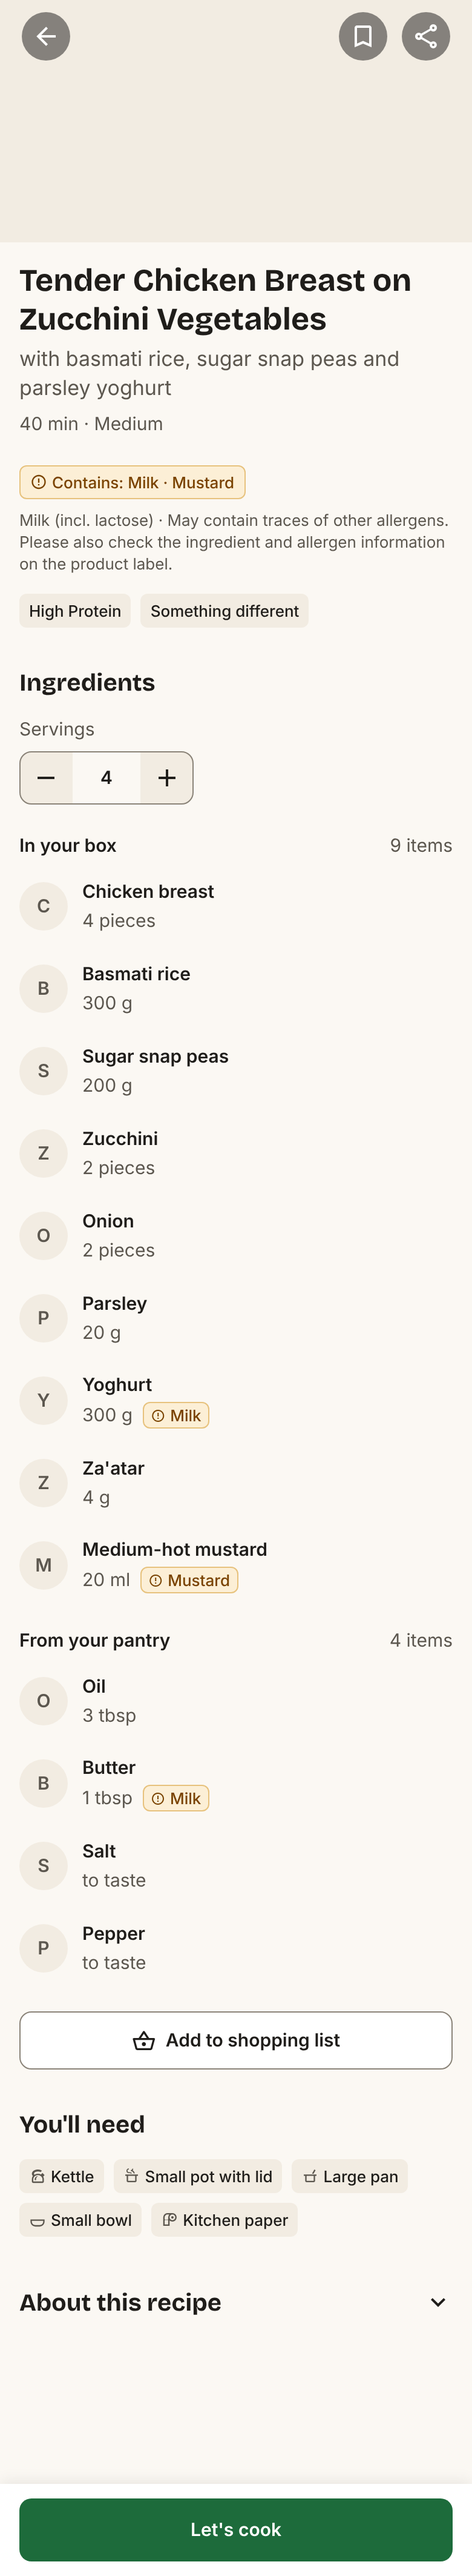
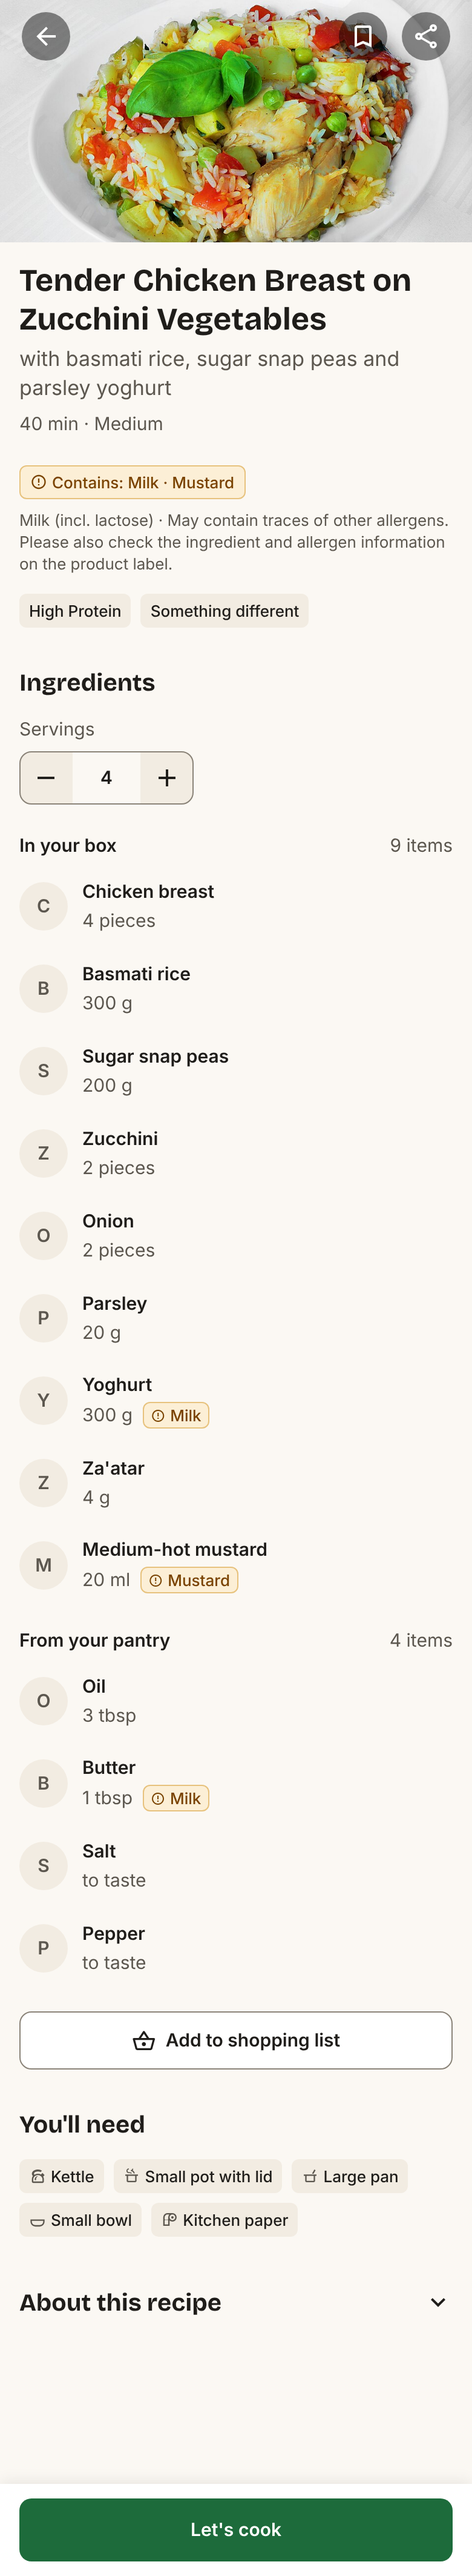
Add new tokens to tokens.md and a credited hero photo
tokens.md now lists every token added during the build (marked Added).
assets/hero.jpg is a free Wikimedia Commons photo (Petar Milosevic,
CC BY-SA 4.0) of chicken, rice, squash and peas; credited in
assets/CREDITS.md and the README. Screenshots refreshed.

Claude-Session: https://claude.ai/code/session_01Nt62VDTQhttFTqkyUPVqAi

Changed region(s): [[0.0615, 0.0, 1.0, 0.0931], [0.0, 0.0, 0.0615, 0.031]]

diff --git a/app/index.tsx b/app/index.tsx
@@ -1,5 +1,5 @@
 import { useState } from 'react';
-import { ScrollView, Share, Text, View } from 'react-native';
+import { Image, ScrollView, Share, Text, View } from 'react-native';
 import { router } from 'expo-router';
 import { useSafeAreaInsets } from 'react-native-safe-area-context';
 import { Button } from '../src/components/Button';
@@ -63,11 +63,13 @@ export default function RecipeScreen() {
   return (
     <View style={{ flex: 1, backgroundColor: color.bg.page }}>
       <ScrollView contentContainerStyle={{ paddingBottom: space[12] }}>
-        {/* Photo. Placeholder until the designer's assets/hero.jpg is added (docs/decisions.md). */}
-        <View
+        {/* Photo: decorative (the title says what the dish is). Credits in assets/CREDITS.md. */}
+        <Image
+          source={require('../assets/hero.jpg')}
+          resizeMode="cover"
           accessibilityElementsHidden
           importantForAccessibility="no-hide-descendants"
-          style={{ height: size.image.hero, backgroundColor: color.bg.subtle }}
+          style={{ width: '100%', height: size.image.hero, backgroundColor: color.bg.subtle }}
         />
 
         {/* Back on the left, Save and Share on the right, over the photo. */}

diff --git a/src/theme/tokens.ts b/src/theme/tokens.ts
@@ -6,8 +6,8 @@
  *   2. semantic – roles (color, space, size, radius, font, type, elevation, focus).
  *                 Components and screens use only these.
  *
- * Tokens marked "Added" are not in tokens.md yet; they were approved on 2026-10-16
- * and are logged in docs/decisions.md.
+ * Tokens marked "Added" were approved on 2026-10-16; they are in tokens.md (marked "Added")
+ * and logged in docs/decisions.md.
  */
 
 // ─── 1. Palette ────────────────────────────────────────────────────────────────

diff --git a/design-system/tokens.md b/design-system/tokens.md
@@ -37,6 +37,7 @@ different colour, only one semantic token changes.
 | `amber.100` | `#FCEFD6` | pale amber |
 | `amber.300` | `#E7C27D` | soft amber |
 | `amber.800` | `#7A4300` | deep amber |
+| `black` | `#000000` | base for overlays and the sticky shadow (added 2026-10-16) |
 
 ### Semantic colours
 
@@ -60,6 +61,7 @@ WCAG AA needs **4.5:1** for normal text and **3:1** for large text and control o
 | `color.allergen.border` | `amber.300` | Soft outline so the allergen tag reads as different even in grayscale. |
 | `color.allergen.fg` | `amber.800` | Allergen text and icon. 7.0:1 on the amber fill. Paired with an icon and the word "Contains", never colour alone. |
 | `color.focus` | `stone.900` | 2 pt focus ring for keyboard and switch-control users; works on every background in this file. |
+| `color.focusOnPhoto` | `white` | Focus ring on the photo's icon buttons, where `stone.900` disappears on dark images. *(Added 2026-10-16.)* |
 | `color.overlay` | black at 45% | Fill behind icon buttons on the photo, so white icons stay readable on any image. |
 | `color.overlayPressed` | black at 60% | Pressed state of those buttons. |
 | `color.onOverlay` | `white` | Icons on the overlay. |
@@ -77,6 +79,7 @@ A **4-point scale**: every gap is a multiple of 4, so spacing feels consistent w
 | `space.6` | 24 | Between related blocks, e.g. title block → allergen row. |
 | `space.8` | 32 | **Between sections** (ingredients → "You'll need"). Clearly bigger than in-section gaps, so sections read as separate. |
 | `space.12` | 48 | Space at the bottom so the last content isn't hidden behind the sticky button. |
+| `space.tagSm` | 6 | Horizontal padding of a small Tag (was "space.1 + 2" in the Tag spec). Off the 4-pt scale on purpose, so tiny tags don't look cramped. *(Added 2026-10-16.)* |
 
 Size tokens:
 
@@ -86,6 +89,17 @@ Size tokens:
 | `size.row.ingredient` | 56 | Ingredient row height: fits a 40 pt photo plus two lines of text with breathing room. |
 | `size.image.ingredient` | 40 | Ingredient photo; big enough to recognise, small enough to keep the list scannable. |
 | `size.cta.height` | 52 | Sticky "Let's cook" button; larger than the minimum because it's the main action. |
+| `size.button.md` | 48 | Standard Button height ("Add to shopping list"); comfortably above the 44 minimum. *(Added)* |
+| `size.tag.md` / `size.tag.sm` | 28 / 22 | Tag heights, used as **minimum** heights so large text never clips. *(Added)* |
+| `size.icon.tagMd` / `size.icon.tagSm` | 14 / 12 | Icons inside md / sm Tags; sized to the 13 pt tag text. *(Added)* |
+| `size.icon.button` | 20 | Leading icon in a Button, e.g. the basket. *(Added)* |
+| `size.icon.default` | 24 | IconButton, stepper, chevron and equipment icons. *(Added)* |
+| `size.iconButton.onPhoto` | 40 | Visible circle of the photo's icon buttons; the tap area stays 44. *(Added)* |
+| `size.stepper.value` | 56 | Width of the stepper's number area; fits "6" at large text sizes. *(Added)* |
+| `size.image.hero` | 200 | Hero photo height. Short enough that the first ingredient shows on the first screen. *(Added)* |
+
+*Tokens marked "Added" were introduced while building the screen on 2026-10-16; reasons in
+[`docs/decisions.md`](../docs/decisions.md).*
 
 ## 3. Radius
 
@@ -116,8 +130,24 @@ Size tokens:
 
 All text sizes should scale with the phone's text-size setting (Dynamic Type / font scale).
 
+Font family names in code *(added 2026-10-16)*:
+
+| Token | Value |
+|---|---|
+| `font.family.headingBold` | Bricolage Grotesque Bold (`BricolageGrotesque_700Bold`) |
+| `font.family.bodyRegular` | Inter Regular (`Inter_400Regular`) |
+| `font.family.bodyMedium` | Inter Medium (`Inter_500Medium`) |
+| `font.family.bodySemiBold` | Inter SemiBold (`Inter_600SemiBold`) |
+
 ## 5. Elevation
 
 | Token | Value | Why |
 |---|---|---|
 | `elevation.sticky` | shadow: 0 −2, blur 12, black at 8% | Only for the sticky CTA bar, to show content scrolls underneath it. Everything else stays flat. |
+
+## 6. Focus *(added 2026-10-16)*
+
+| Token | Value | Why |
+|---|---|---|
+| `focus.width` | 2 | Thickness of the focus ring. |
+| `focus.offset` | 2 | Gap between a control and its focus ring, so the ring never touches the control's own border. |

diff --git a/docs/decisions.md b/docs/decisions.md
@@ -16,7 +16,6 @@ Decisions that aren't in the specs, with the reason. Newest at the bottom.
 | 2026-10-16 | The StickyCTA hint appears in the component gallery only, not on the recipe screen. | "Step-by-step with timers" isn't in content.md, and "first time only" needs saved state the build doesn't have. |
 | 2026-10-16 | Ingredient placeholder: a circle in `color.bg.subtle` with the first letter in `type.label`, `color.text.secondary`. | No photos yet; the spec didn't say how the letter looks. |
 | 2026-10-16 | `check:tokens` checks style values only (`StyleSheet.create`, `style={}`, style keys, icon `size` / `hitSlop`), plus hex and `rgb()` anywhere outside `src/theme/`. | Content and maths have numbers (150 g, max 6 servings) that are not style values. |
-| 2026-10-16 | Until `assets/hero.jpg` is uploaded, the photo area is a plain `color.bg.subtle` block. | No HelloFresh imagery allowed; placeholder until the designer's photo arrives. |
 | 2026-10-16 | Expo SDK 58, routes in `app/` (CLAUDE.md), not `src/app/` (Expo's newer default). | CLAUDE.md names `app/index.tsx` and `app/gallery.tsx`. |
 | 2026-10-16 | Shared focus-ring helpers: `src/theme/focusRing.ts` (ring style from tokens) and `src/hooks/useFocusRing.ts` (on web the ring shows for keyboard focus only, not after a click). | Four components need the same 2 pt ring. These are helpers, not components; nothing visible exists outside the 7 components. |
 | 2026-10-16 | `app/gallery.tsx` has no `.md` spec. | It's a developer tool for viewing the components (like Storybook), not part of the design system or the recipe screen. |
@@ -31,3 +30,4 @@ Decisions that aren't in the specs, with the reason. Newest at the bottom.
 | 2026-10-16 | Each equipment item has its own icon: kettle `kettle-outline`, pot `pot-steam-outline`, pan `pot-mix-outline`, bowl `bowl-outline`, kitchen paper `paper-roll-outline`. `IngredientRow` gets an `icon` prop for the `equipment` variant; CLAUDE.md icon mapping updated. | Five identical pots were hard to scan; people look for the specific item. The set has no frying pan (its `pan` icon is the move gesture), so the pan uses `pot-mix-outline`, a shallow pan with a spatula. |
 | 2026-10-16 | "You'll need" shows equipment as small chips: new `Tag` variant `equipment` (subtle fill, equipment icon in `color.text.secondary`, Tag md size) in a wrapping row with `space.2` gaps. Tag.md updated. The `IngredientRow` `equipment` variant stays but the screen no longer uses it. | Chosen from a mockup (option A): 138 pt instead of 342 pt for the same five items. Trade-off: 13 pt text is smaller than the ingredient names. |
 | 2026-10-16 | Equipment icon names live in `src/theme/icons.ts`. | Tag and IngredientRow both use them; one place to change. |
+| 2026-10-16 | Hero photo: a free Wikimedia Commons photo (Petar Milošević, CC BY-SA 4.0) of chicken, rice, squash and peas, saved as `assets/hero.jpg`, credited in `assets/CREDITS.md` and the README. Cropped to fill the 200 pt area. | Stand-in until the designer's own photo; matches the recipe closely and is not a HelloFresh image. CC BY-SA requires the credit. |

diff --git a/README.md b/README.md
@@ -48,7 +48,7 @@ npm run web        # or open it in the browser
 
 - The recipe screen is the home page. The component gallery is at `/gallery`
   (in the browser: `http://localhost:8081/gallery`).
-- The dish photo is a placeholder until `assets/hero.jpg` is added.
+- The dish photo (`assets/hero.jpg`) is a free stand-in from Wikimedia Commons, see [Credits](#credits).
 
 Checks (both must pass before any change is merged):
 
@@ -56,3 +56,8 @@ Checks (both must pass before any change is merged):
 npx tsc --noEmit        # type check
 npm run check:tokens    # fails on any colour code or raw style number outside src/theme/
 ```
+
+## Credits
+
+Dish photo: [Parboiled rice with chicken, peppers, cucurbita, peas and tomato](https://commons.wikimedia.org/wiki/File:Parboiled_rice_with_chicken,_peppers,_cucurbita,_peas_and_tomato.jpg)
+by Petar Milošević, [CC BY-SA 4.0](https://creativecommons.org/licenses/by-sa/4.0/), via Wikimedia Commons. Details in [`assets/CREDITS.md`](assets/CREDITS.md).

diff --git a/CLAUDE.md b/CLAUDE.md
@@ -56,7 +56,7 @@ Don't improvise a new colour, size, component or variant.
   shopping list `basket-outline` · allergen `alert-circle-outline` · equipment: kettle `kettle-outline`,
   pot `pot-steam-outline`, pan `pot-mix-outline`, bowl `bowl-outline`, kitchen paper `paper-roll-outline` ·
   minus `minus` · plus `plus` · chevron `chevron-down` / `chevron-up`.
-- Images: the hero photo is `assets/hero.jpg` (supplied by the designer). Until real ingredient photos exist,
+- Images: the hero photo is `assets/hero.jpg` (supplied by the designer; for now a credited free stand-in, see `assets/CREDITS.md`). Until real ingredient photos exist,
   `IngredientRow` shows a placeholder: a circle in `color.bg.subtle` with the ingredient's first letter.
 
 ### Accessibility (not optional)

diff --git a/assets/CREDITS.md b/assets/CREDITS.md
@@ -1,0 +1,8 @@
+# Image credits
+
+| File | Source | Author | License |
+|---|---|---|---|
+| `hero.jpg` | [Parboiled rice with chicken, peppers, cucurbita, peas and tomato](https://commons.wikimedia.org/wiki/File:Parboiled_rice_with_chicken,_peppers,_cucurbita,_peas_and_tomato.jpg) (Wikimedia Commons, 960 px version, unmodified) | Petar Milošević | [CC BY-SA 4.0](https://creativecommons.org/licenses/by-sa/4.0/) |
+
+A stand-in photo for the concept: chicken, rice, zucchini-type squash and peas, close to the recipe.
+Not a HelloFresh image. Replace it with the designer's own photo when available.
